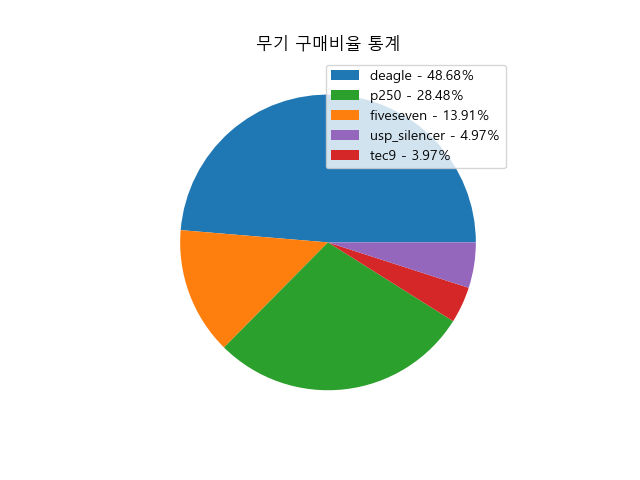
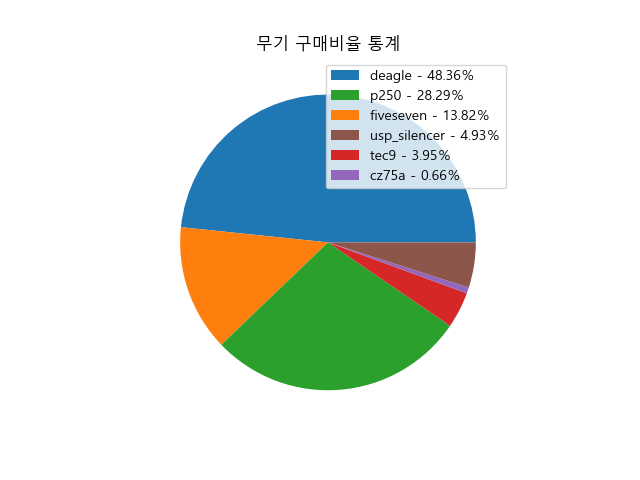
실수 수정

diff --git a/weapon_buy_bytype.py b/weapon_buy_bytype.py
@@ -11,7 +11,7 @@ from zplib import data_path
 from valve_keyvalues_python.keyvalues import KeyValues
 
 # 총기 분석타입, Pistol이면 피스톨 통계
-ANALYSIS_TYPE = "Heavy Rifle"
+ANALYSIS_TYPE = "Sniper"
 
 #한글 글꼴 설정
 font_name = fm.FontProperties(fname="C:\\Windows\\Fonts\\malgun.ttf").get_name()
@@ -22,11 +22,11 @@ kv = KeyValues(filename=data_path.stats)
 weapon_buydict = kv["statistics"]["weapon_buy"]
 
 type_dict = {
-    "Pistol": ["glock", "hkp2000", "usp_silencer", "p250", "fiveseven", "tec9", "deagle", "revolver"],
+    "Pistol": ["glock", "hkp2000", "usp_silencer", "p250", "fiveseven", "tec9", "cz75a", "deagle", "revolver"],
     "Shotgun": ["nova", "xm1014", "mag7", "sawedoff"],
     "SMG": ["mp9", "mac10", "mp7", "ump45", "mp5sd", "p90"],
     "Rifle": ["galilar", "famas", "ak47", "m4a1", "m4a1_silencer", "sg556", "aug"],
-    "Sniper": ["weapon_ssg08"],
+    "Sniper": ["ssg08"],
     "Heavy Rifle": ["m249", "negev"]
 }
 

diff --git a/weapon_buy.py b/weapon_buy.py
@@ -39,11 +39,11 @@ df['percentage'] = df["count"] / total
 typedf = pd.DataFrame(columns=['count', 'percentage'])
 
 type_dict = {
-    "Pistol": ["glock", "hkp2000", "usp_silencer", "p250", "fiveseven", "tec9", "deagle", "revolver"],
+    "Pistol": ["glock", "hkp2000", "usp_silencer", "p250", "fiveseven", "tec9", "cz75a", "deagle", "revolver"],
     "Shotgun": ["nova", "xm1014", "mag7", "sawedoff"],
     "SMG": ["mp9", "mac10", "mp7", "ump45", "mp5sd", "p90"],
     "Rifle": ["galilar", "famas", "ak47", "m4a1", "m4a1_silencer", "sg556", "aug"],
-    "Sniper": ["weapon_ssg08"],
+    "Sniper": ["ssg08"],
     "Heavy Rifle": ["m249", "negev"]
 }
 
